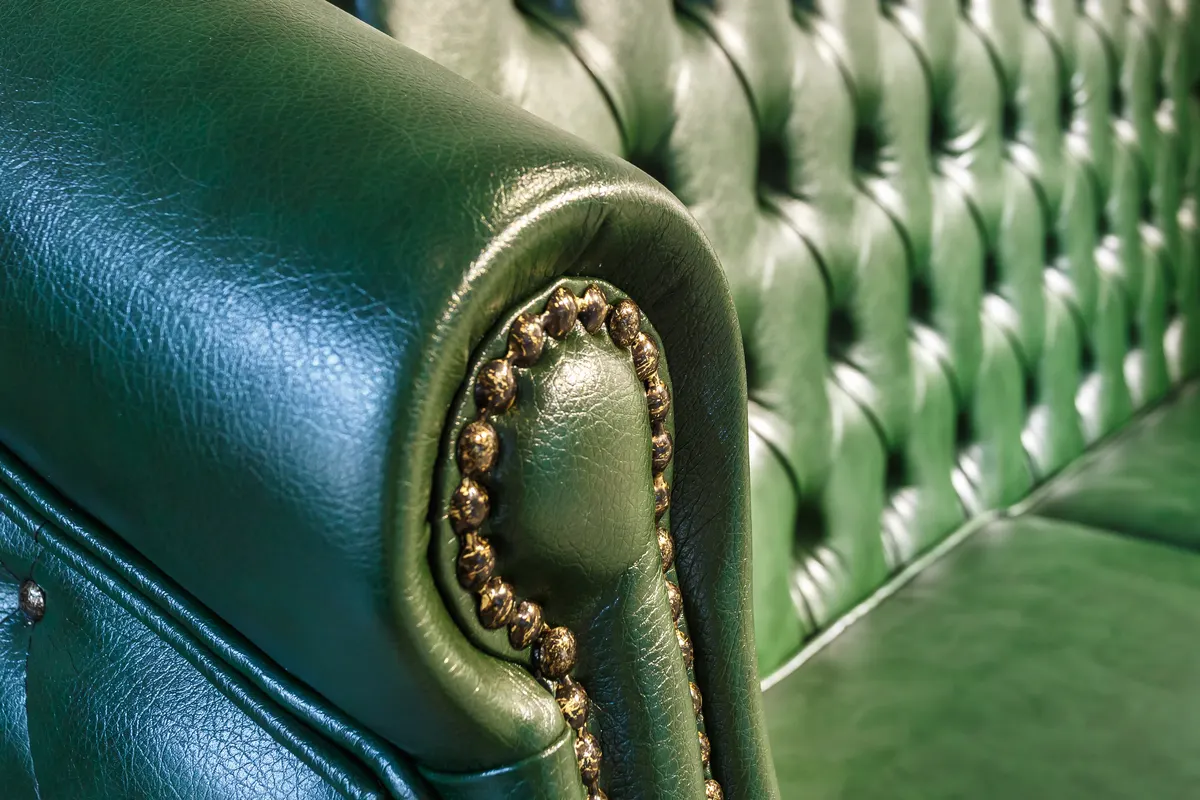
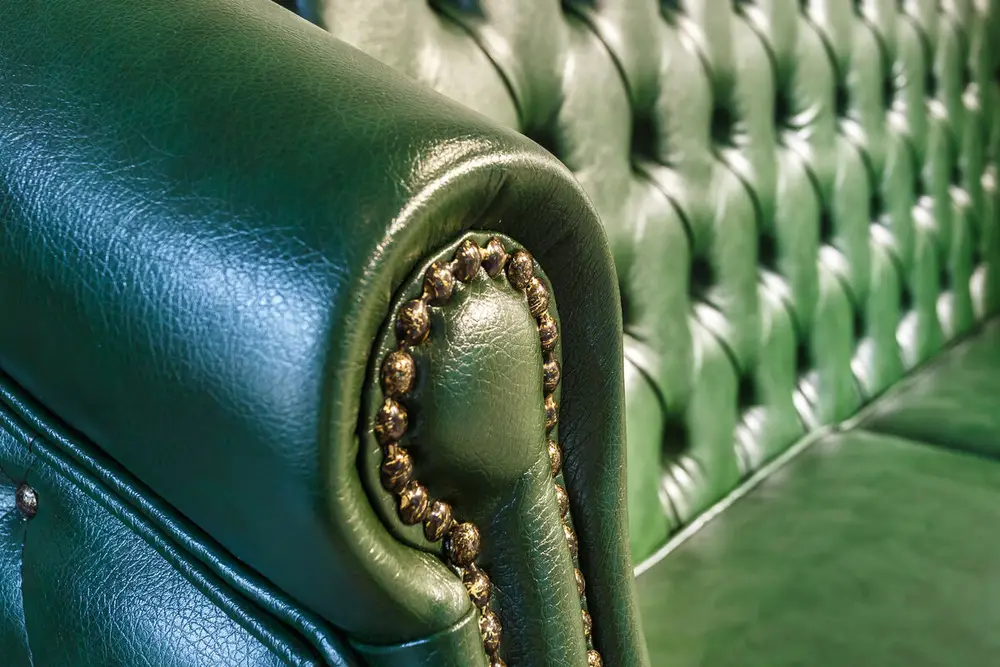
Otimiza PageSpeed mobile: CSS/fontes async, LCP menor e animações compostas.

Changed region(s): [[0.124, 0.8396, 0.248, 0.9595], [0.527, 0.4498, 0.558, 0.4798], [0.465, 0.8696, 0.496, 0.8996]]

diff --git a/index.html b/index.html
@@ -36,11 +36,28 @@
   <meta name="twitter:description" content="Reforma de sofá, restauração e móveis sob medida. +25 anos. WhatsApp (11) 94312-5880.">
   <meta name="twitter:image" content="https://inovartdecor.com.br/assets/og.jpg">
 
-  <link rel="preload" as="image" href="assets/galeria-poltrona.webp" type="image/webp">
+  <link rel="preload" as="image" href="assets/galeria-poltrona-720.webp" type="image/webp" imagesrcset="assets/galeria-poltrona-720.webp 720w, assets/galeria-poltrona.webp 800w" imagesizes="(max-width: 768px) 92vw, min(48vw, 560px)">
   <link rel="preconnect" href="https://fonts.googleapis.com">
   <link rel="preconnect" href="https://fonts.gstatic.com" crossorigin>
-  <link href="https://fonts.googleapis.com/css2?family=Figtree:wght@400;500;600;700&family=Fraunces:ital,opsz,wght@0,9..144,500;0,9..144,600;0,9..144,700;1,9..144,500&display=swap" rel="stylesheet">
-  <link rel="stylesheet" href="css/styles.css">
+  <link rel="preload" as="style" href="https://fonts.googleapis.com/css2?family=Figtree:wght@400;600;700&family=Fraunces:ital,opsz,wght@0,9..144,500;0,9..144,600;0,9..144,700;1,9..144,500&display=swap">
+  <link rel="stylesheet" href="https://fonts.googleapis.com/css2?family=Figtree:wght@400;600;700&family=Fraunces:ital,opsz,wght@0,9..144,500;0,9..144,600;0,9..144,700;1,9..144,500&display=swap" media="print" onload="this.media='all'">
+  <noscript><link rel="stylesheet" href="https://fonts.googleapis.com/css2?family=Figtree:wght@400;600;700&family=Fraunces:ital,opsz,wght@0,9..144,500;0,9..144,600;0,9..144,700;1,9..144,500&display=swap"></noscript>
+  <link rel="preload" href="css/styles.css" as="style" onload="this.onload=null;this.rel='stylesheet'">
+  <noscript><link rel="stylesheet" href="css/styles.css"></noscript>
+  <script>
+    /* Fallback se onload de preload não disparar */
+    !function(d){var l=d.querySelector('link[rel=preload][as=style]');if(!l)return;var t=setInterval(function(){if(l.sheet||l.rel==='stylesheet'){clearInterval(t);l.rel='stylesheet'}},60);setTimeout(function(){clearInterval(t);if(l.rel!=='stylesheet')l.rel='stylesheet'},2500)}(document);
+  </script>
+  <style>
+    /* Critical above-the-fold — evita FOUC com CSS assíncrono */
+    html{scroll-behavior:smooth}
+    body{margin:0;background:#0b0b0c;color:#efece4;font-family:system-ui,sans-serif}
+    .site-header{position:fixed;inset:0 0 auto;z-index:100;height:76px;background:rgba(11,11,12,.62)}
+    .hero{min-height:100svh;display:grid;align-content:end;padding:6rem 1rem 2rem;color:#efece4}
+    .hero h1{font-family:Georgia,serif;font-size:clamp(2.4rem,8vw,4.6rem);line-height:1.05;margin:0 0 .75rem;font-weight:600}
+    .hero h1 em{font-style:italic;color:#c9a45c}
+    .hero-media img{width:100%;height:auto;aspect-ratio:800/950;object-fit:cover;background:#141416}
+  </style>
 
   <script type="application/ld+json">
   {
@@ -292,8 +309,15 @@
           <span class="hero-frame" aria-hidden="true"></span>
           <figure class="hero-media" data-parallax>
             <picture>
-              <source srcset="assets/galeria-poltrona.webp" type="image/webp">
-              <img src="assets/galeria-poltrona.jpg" alt="Poltrona reformada pela InovArt: tecido cinza-chumbo e madeira restaurada em detalhe" width="800" height="950" fetchpriority="high" decoding="async">
+              <source
+                type="image/webp"
+                srcset="assets/galeria-poltrona-720.webp 720w, assets/galeria-poltrona.webp 800w"
+                sizes="(max-width: 768px) 92vw, min(48vw, 560px)">
+              <source
+                type="image/jpeg"
+                srcset="assets/galeria-poltrona-720.jpg 720w, assets/galeria-poltrona.jpg 800w"
+                sizes="(max-width: 768px) 92vw, min(48vw, 560px)">
+              <img src="assets/galeria-poltrona-720.jpg" alt="Poltrona reformada pela InovArt: tecido cinza-chumbo e madeira restaurada em detalhe" width="609" height="720" fetchpriority="high" decoding="async">
             </picture>
           </figure>
           <p class="hero-caption" aria-hidden="true">Poltrona restaurada — ateliê InovArt</p>

diff --git a/js/main.js b/js/main.js
@@ -175,16 +175,15 @@
     mapIo.observe(mapFrame.parentElement || mapFrame);
   }
 
-  // Soft parallax on hero visual (desktop only)
+  // Soft parallax on hero visual (desktop only) — uses scrollY to avoid forced reflow
   const parallaxEl = document.querySelector("[data-parallax]");
-  if (parallaxEl && !reduceMotion) {
+  if (parallaxEl && !reduceMotion && !isMobile()) {
     let ticking = false;
     const onScroll = () => {
-      if (ticking || isMobile()) return;
+      if (ticking) return;
       ticking = true;
       requestAnimationFrame(() => {
-        const rect = parallaxEl.getBoundingClientRect();
-        const offset = Math.max(-30, Math.min(30, (window.innerHeight / 2 - rect.top) * 0.04));
+        const offset = Math.max(-24, Math.min(24, window.scrollY * 0.06));
         parallaxEl.style.transform = `translate3d(0, ${offset}px, 0)`;
         ticking = false;
       });

diff --git a/css/styles.css b/css/styles.css
@@ -1099,6 +1099,8 @@ h3 { font-size: clamp(1.2rem, 2.2vw, 1.5rem); }
   font-weight: 600;
   box-shadow: 0 12px 30px rgba(37, 211, 102, 0.4);
   animation: waPulse 2.8s ease-in-out infinite;
+  will-change: transform;
+  transform: translateZ(0);
 }
 .whatsapp-float:hover { color: #fff; transform: translateY(-2px); }
 .whatsapp-float img {
@@ -1107,8 +1109,8 @@ h3 { font-size: clamp(1.2rem, 2.2vw, 1.5rem); }
   filter: brightness(0) invert(1);
 }
 @keyframes waPulse {
-  0%, 100% { box-shadow: 0 12px 30px rgba(37, 211, 102, 0.4); }
-  50% { box-shadow: 0 12px 36px rgba(37, 211, 102, 0.65); }
+  0%, 100% { transform: scale(1); }
+  50% { transform: scale(1.04); }
 }
 
 /* Lightbox */
